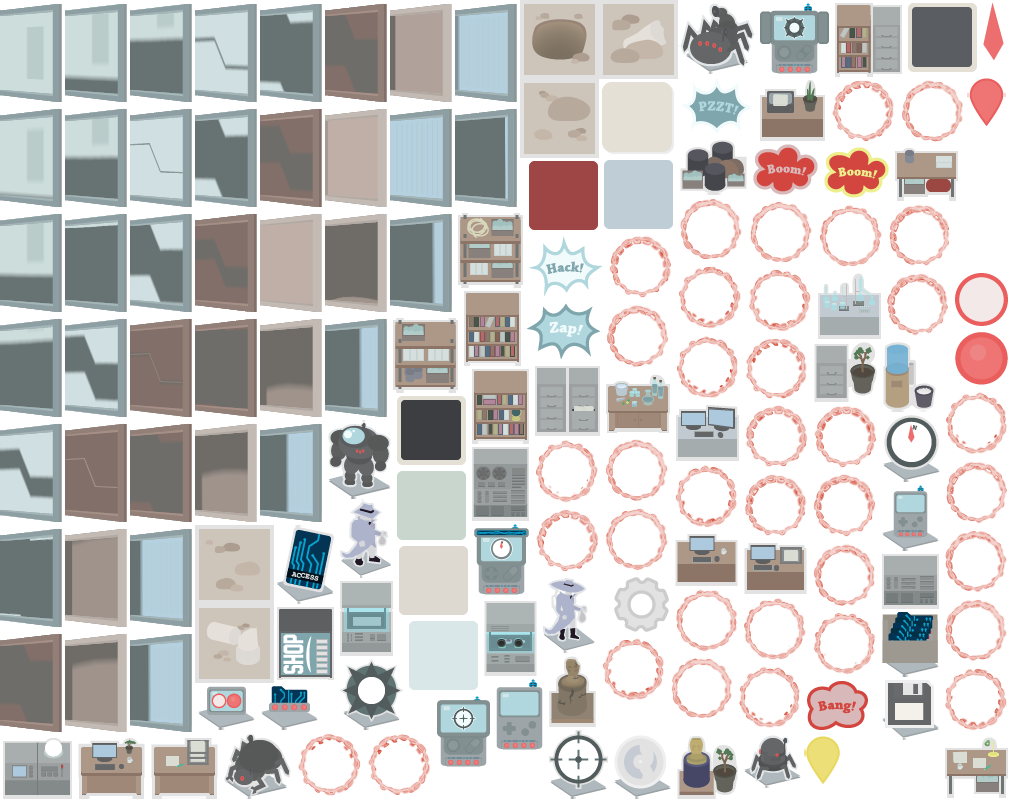
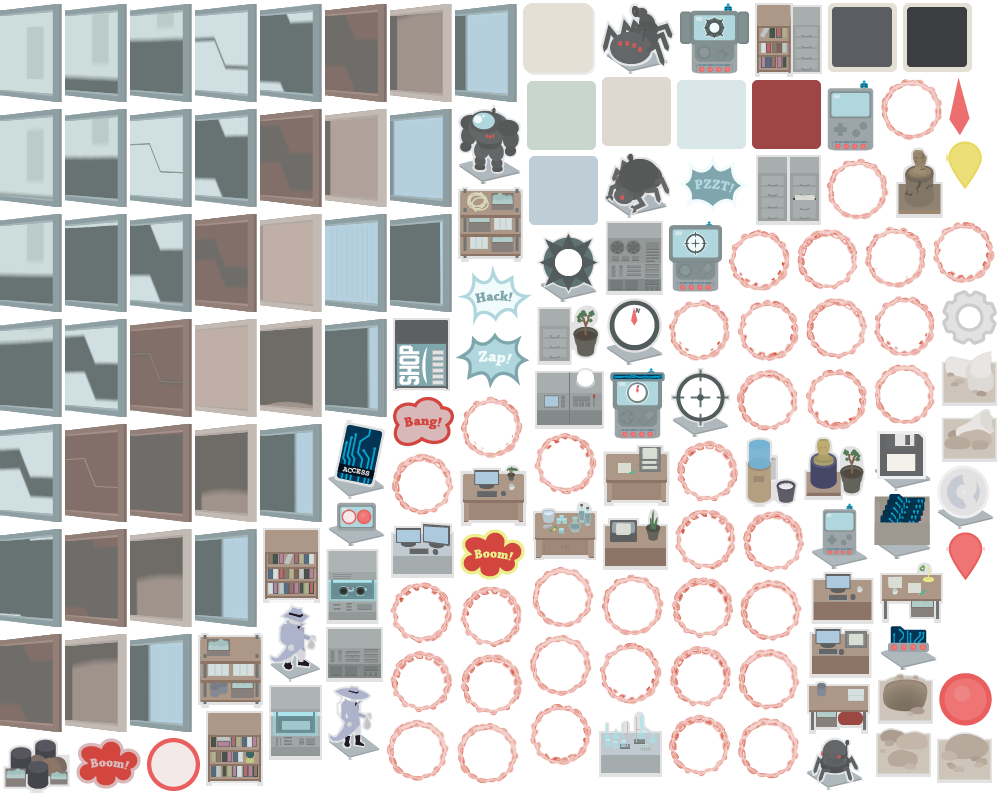
Update hole and ruins assets.  Remove the conditional scaling code.

diff --git a/src/js/game-objects/level/tile.ts b/src/js/game-objects/level/tile.ts
@@ -15,20 +15,6 @@ import Level from "./level";
 type FadePoses = "FadeOut" | "FadeIn";
 type MagnifyPoses = "ZoomIn" | "ZoomOut";
 
-const isFrameOffset = (frame: string): boolean => {
-  if (
-    frame === "hole-1" ||
-    frame === "rocks-1" ||
-    frame === "rocks-2" ||
-    frame === "ruins-1" ||
-    frame === "ruins-2"
-  ) {
-    return true
-  } else {
-    return false
-  }
-}
-
 export default class Tile {
   public isRevealed = false;
   public gridX = 0;
@@ -48,7 +34,6 @@ export default class Tile {
   private scramblePoser: TweenPoser<FadePoses>;
   private canScramble = false;
   private secondarySelectKey: Input.Keyboard.Key;
-  private overrideTileOffset: boolean;
 
   constructor(
     private scene: Scene,
@@ -68,8 +53,6 @@ export default class Tile {
 
     this.gridX = 0;
     this.gridY = 0;
-
-    this.overrideTileOffset = isFrameOffset(frameName);
 
     this.frontSprite = scene.add.sprite(0, 0, "all-assets", tileKey);
     this.backSprite = scene.add.sprite(0, 0, "all-assets", "tile-back-disabled");
@@ -97,8 +80,7 @@ export default class Tile {
     this.container.setDepth(DEPTHS.BOARD);
 
     if (!this.isCurrentlyBlank && type !== TILE_TYPES.ENTRANCE) {
-      const yPos = this.overrideTileOffset ? y : y - 20;
-      this.tileContents = scene.add.sprite(x, yPos, "all-assets", frameName);
+      this.tileContents = scene.add.sprite(x, y - 20, "all-assets", frameName);
       this.tileContents.setDepth(yPositionToDepth(y));
     }
 
@@ -124,9 +106,8 @@ export default class Tile {
       duration: 250,
       ease: BezierEasing(0.31, 0.68, 0.02, 1.47), // https://cubic-bezier.com/#.17,.67,.83,.67
     });
-    const contentsScale = this.overrideTileOffset ? 1.0 : 1.2
     this.contentsMagnifyPoser.definePoses({
-      ZoomIn: { scaleX: contentsScale, scaleY: contentsScale },
+      ZoomIn: { scaleX: 1.2, scaleY: 1.2 },
       ZoomOut: { scaleX: 0, scaleY: 0 },
     });
     this.contentsMagnifyPoser.setToPose("ZoomOut");
